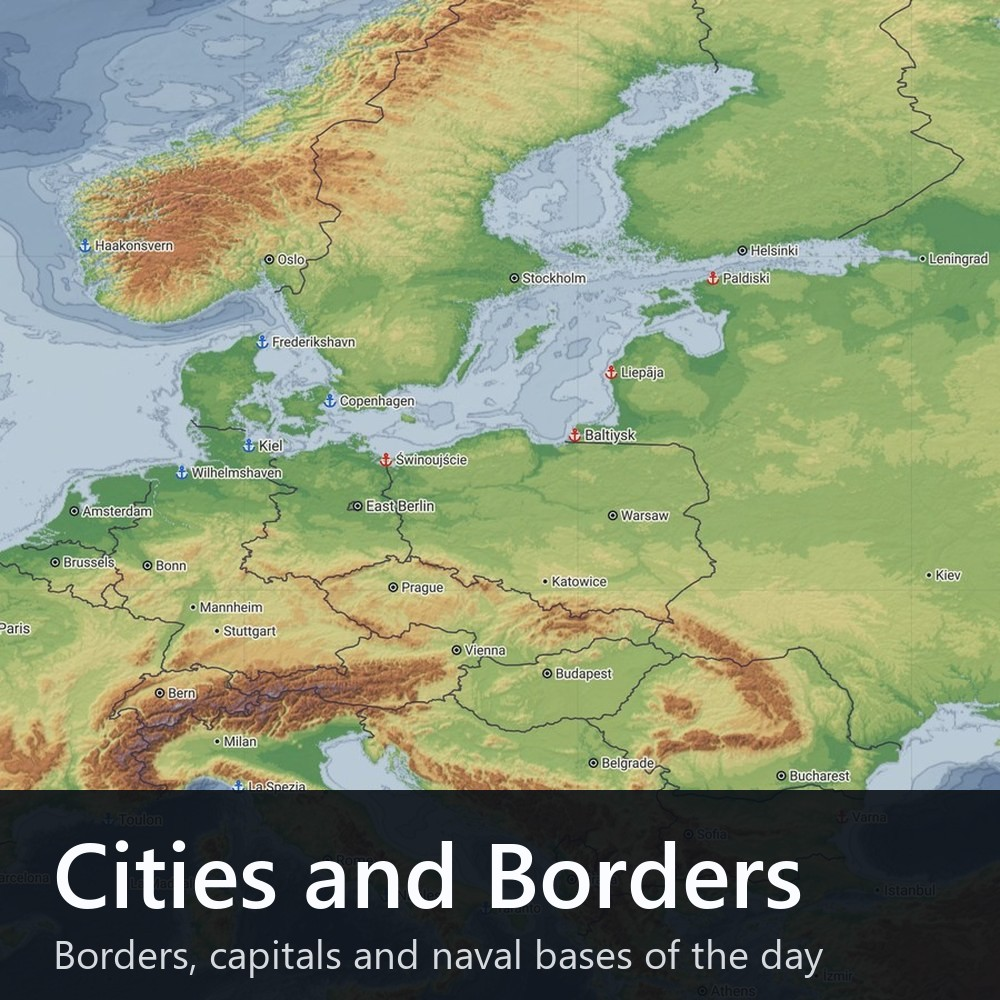
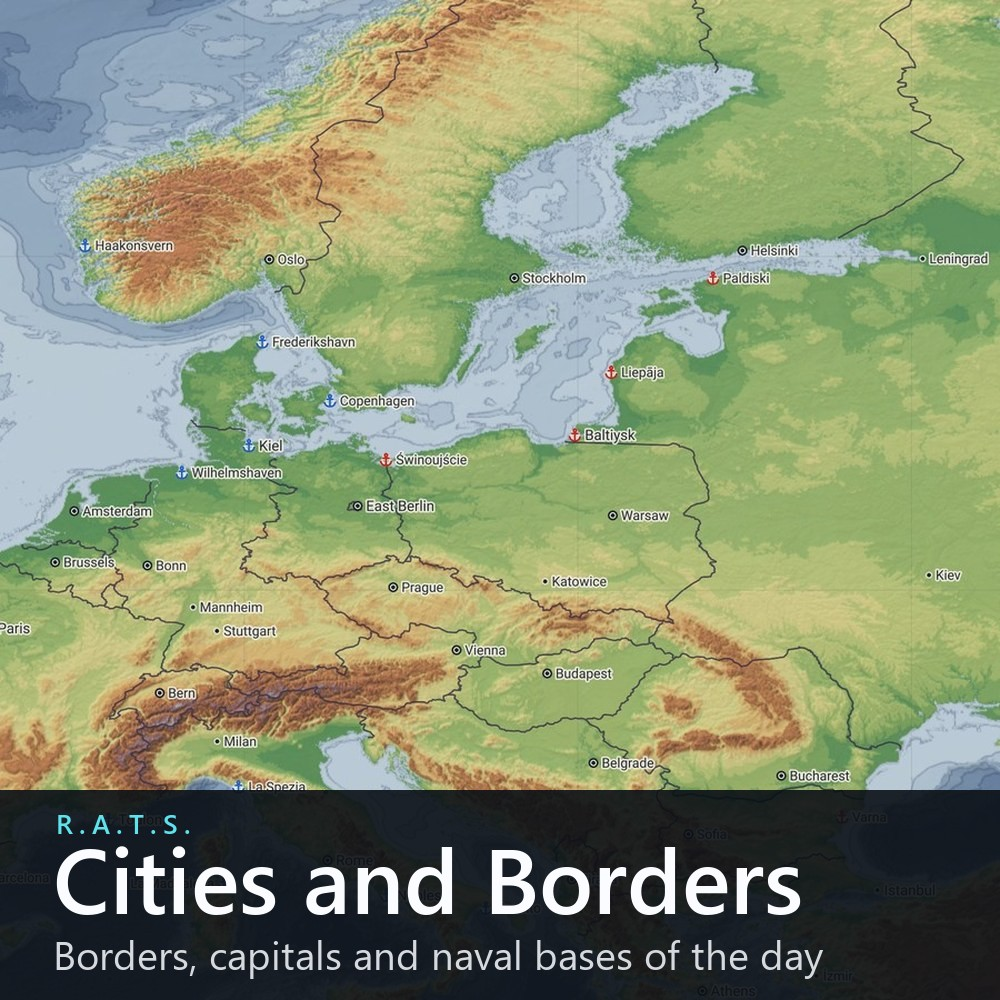
R.A.T.S. branding: README heading, Workshop description (title, tagline, signature) and main picture with the brand mark

diff --git a/tools/make-preview.py b/tools/make-preview.py
@@ -1,4 +1,6 @@
-"""Workshop main picture of the mod: the same look as the other Sea Power mods' pictures (Radio, Topographic Map, Pop-Out) - 1000 x 1000,
+"""Superseded: the R.A.T.S. look (with the brand mark) is made by the workspace's tools/brand-preview.py.
+
+Workshop main picture of the mod: the same look as the other Sea Power mods' pictures (Radio, Topographic Map, Pop-Out) - 1000 x 1000,
 a dark, slightly see-through band over the bottom fifth with the title in Segoe UI Semibold and a lighter subtitle below it.
 Source picture: workshop/preview-source.jpg (the unbanded map). Writes workshop/preview.jpg (Steam takes under 1 MB).
 

diff --git a/README.md b/README.md
@@ -1,4 +1,4 @@
-# Sea Power: Rats Cities and Borders
+# Sea Power: R.A.T.S. Cities and Borders
 
 > **On the Steam Workshop since 2026-10-28; 1.1.0 (borders and cities in the mission editor) since 2026-10-31:** https://steamcommunity.com/sharedfiles/filedetails/?id=3827360064
 > National borders, cities and naval bases of the mission's date and an optional coastal distance line, tested in the
